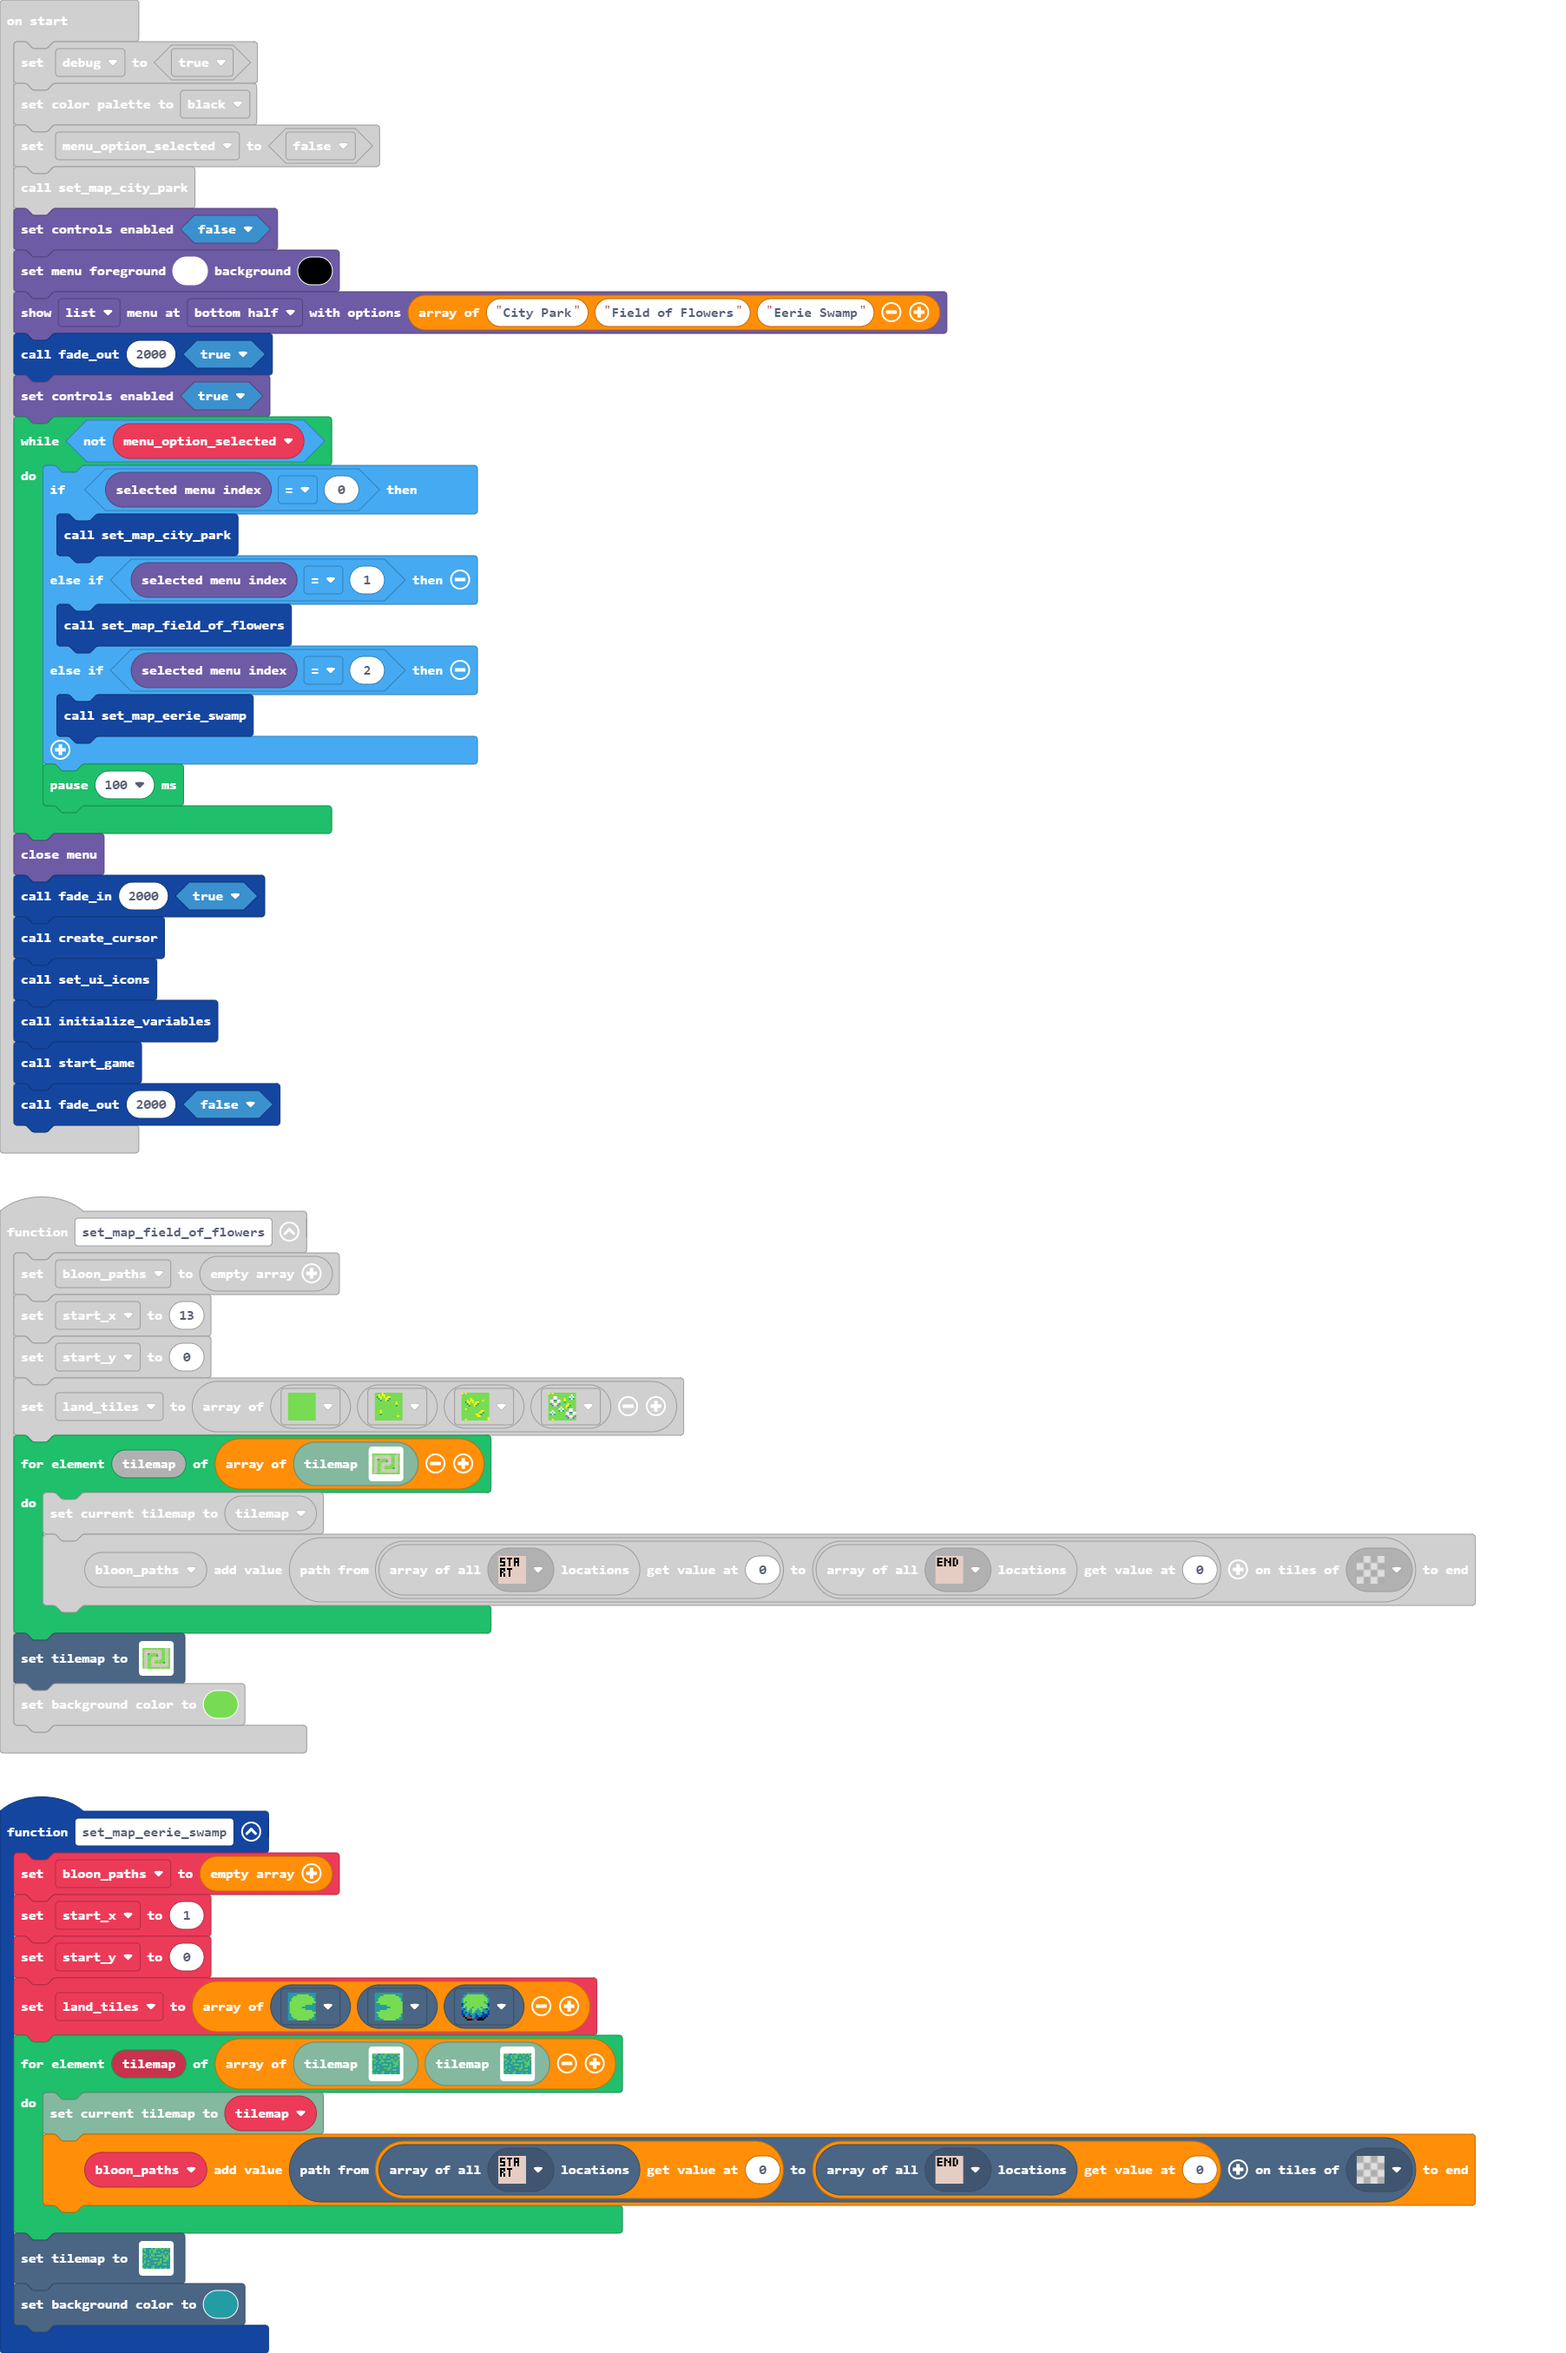
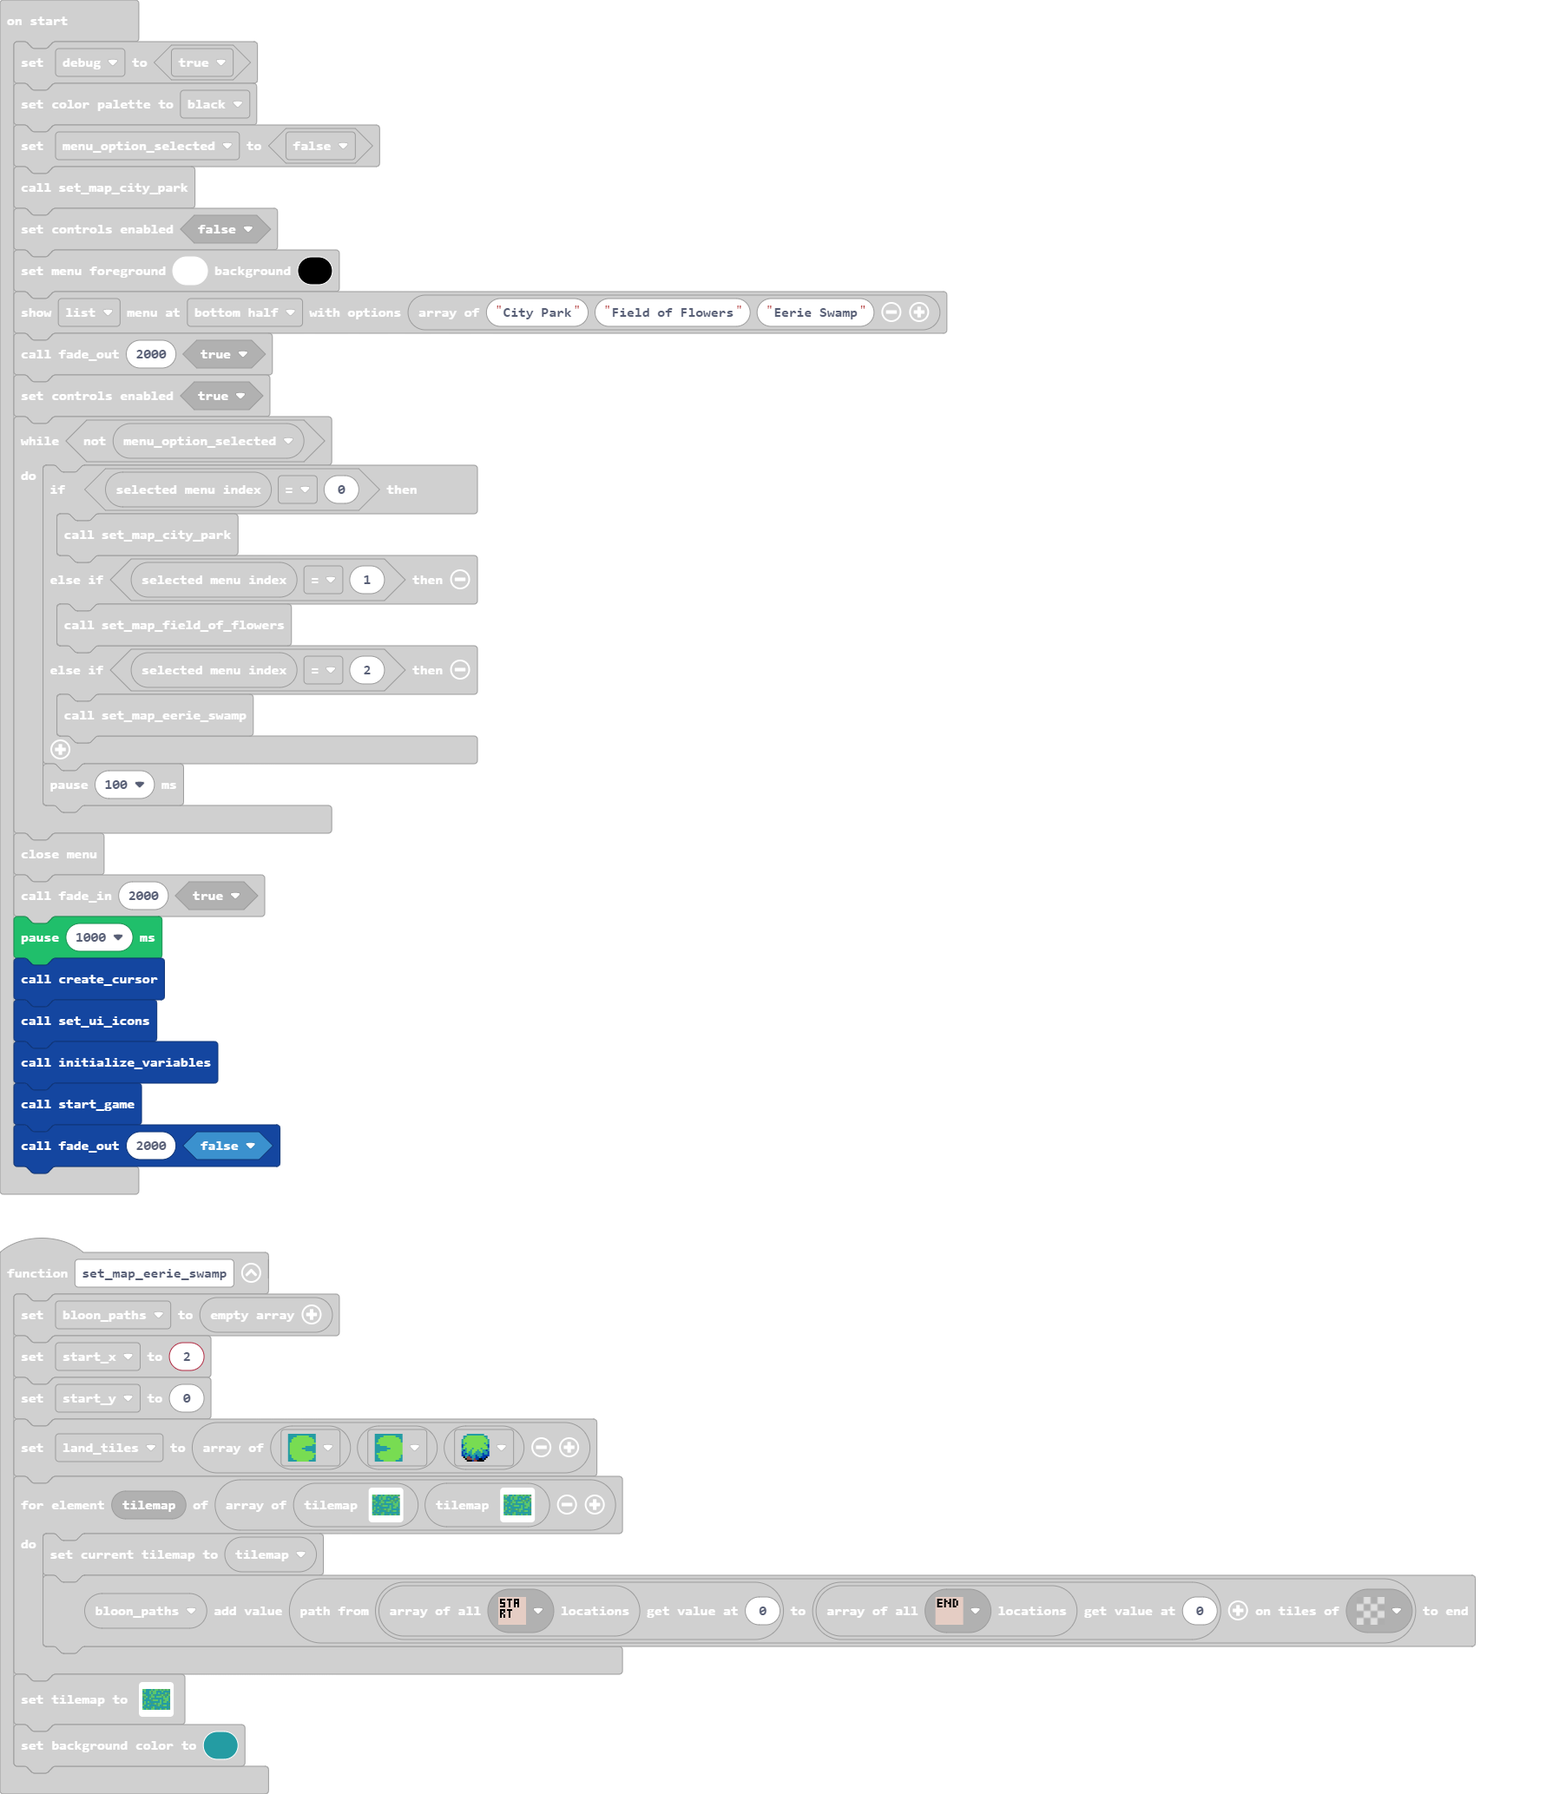
Fix delay after menu select

Changed region(s): [[0.0, 0.0, 0.9623, 1.0]]

diff --git a/main.ts b/main.ts
@@ -723,7 +723,7 @@ function dart_monkey_right_click () {
 }
 function set_map_eerie_swamp () {
     bloon_paths = []
-    start_x = 1
+    start_x = 2
     start_y = 0
     land_tiles = [myTiles.tile14, myTiles.tile15, sprites.builtin.forestTiles0]
[1 lines of base64/hex data omitted]
@@ -908,6 +908,7 @@ while (!(menu_option_selected)) {
 }
 blockMenu.closeMenu()
 fade_in(2000, true)
+pause(1000)
 create_cursor()
 set_ui_icons()
 initialize_variables()
